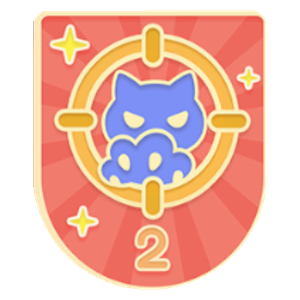
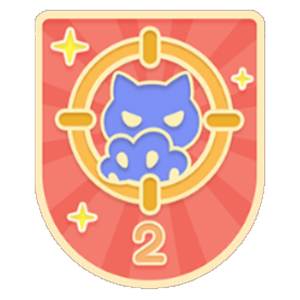
実績バッジ9枚をユーザー提供の切り抜き済み画像に差し替え (#16)
自動切り抜きでは再現しきれなかった9個のバッジ（不屈の心、虫の司令官、
かぼちゃダルマ、収集家、ロケットスポンサー、パズルの芸術家、弛まぬ筆、
スターダストコレクター、名手の第一歩）について、ユーザーが用意した
切り抜き済み画像を使用するよう差し替えた。

各画像は余白をトリムし、既存バッジ画像と同じ余白比率（0.93）・
300x300pxに統一。書き出し時に残っていた微小なノイズ片は連結成分の
最大領域のみを残すことで除去した。

全75枚の連結成分チェックとtest suite (32/32) を実施済み。

Claude-Session: https://claude.ai/code/session_01K3eMRAeT6oYS9BRu22swvm

Changed region(s): [[0.09, 0.03, 0.9, 0.99], [0.21, 0.48, 0.24, 0.51]]

diff --git a/service-worker.js b/service-worker.js
@@ -1,5 +1,5 @@
 // キャッシュ名（更新時はバージョンを上げる）
-const CACHE_NAME = "hatopi-v2.604.0";
+const CACHE_NAME = "hatopi-v2.605.0";
 
 // キャッシュするファイル一覧
 const CACHE_FILES = [
